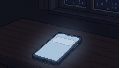
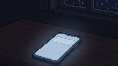
트루 엔딩 마지막 장면: 원본 두 칸 사이 경계선이 걸리던 오른쪽 끝 정리

diff --git a/tools/process_endings.py b/tools/process_endings.py
@@ -21,11 +21,11 @@ for f, out in [(f'{N} (1).png', 'screen_ending_partial.png'), (f'{N} (2).png', '
 save(unspark(reduce(loadf('Gemini_Generated_Image_yff4syff4syff4sy.png'), 240, 131).copy()), 'screen_ending_bad4.png')
 # 트루 마지막 장면: 왼쪽 패널(로고 없음) → 휴대전화 중심 16:9
 a = np.asarray(Image.open(os.path.join(SRC, f'{N}.png')).convert('RGB')).astype(np.int16)
-panel = a[:, :1378]
-h = round(1378 * 9 / 16)
+panel = a[:, :1350]
+h = round(1350 * 9 / 16)
 y0 = 420
 crop = panel[y0:y0 + h]
-nx = round(1378 / 11.45); ny = round(h / 11.45)
+nx = round(1350 / 11.45); ny = round(h / 11.45)
 save(reduce(crop, nx, ny), 'screen_ending_invite.png')
 # 배드 ③: 사진 → 가운데 영역만, 저해상도·제한 팔레트
 a = loadf(f'{N} (3).png')
